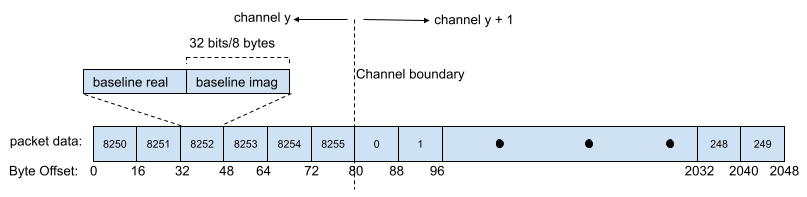
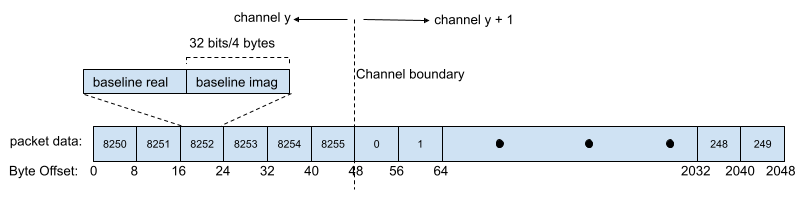
Add misc documentation updates
As per feedback on PR #131, there were a few formatting changes required
to conform a bit better to the .rst format. The X-Engine packet format
diagram was updated with the correct byte increments. I still need to
check if the relative links to documentation is working as expected.

Contributes to: NGC-376.

diff --git a/src/katgpucbf/xbgpu/xsend.py b/src/katgpucbf/xbgpu/xsend.py
@@ -25,7 +25,7 @@ heap out onto the network using the spead2 Python module. The high-performance
 ibverbs implementation of spead2 will be used even though the data rates out
 are very low due to the ibverbs implementation using far fewer system
 resources. The format of the packets transmitted by SPEAD2 can be found here:
-- doc/xbgpu.packet_format.rst
+- :ref:`xbgpu-packet-format`.
 
 The XSend class creates its own buffers and data in those buffers will be
 encapsulated into SPEAD heaps and sent onto the network. The user can request

diff --git a/src/tools/fsim.cpp b/src/tools/fsim.cpp
@@ -227,7 +227,7 @@ struct heap_data
          * Correlator Beamformer Visibilities and Tied Array Data" (Document ID: M1000-0001-020 rev 4)
          *
          * A rough explanation has been put together showing the exact packet format and byte offsets produced by the
-         * F-Engine - available at doc/fgpu.packet_format.rst.
+         * F-Engine - available at :ref:`fgpu-packet-format`.
          */
 
         heap.add_item(0x4101, iFengId);                            // The index of the F-Engine data is sent from

diff --git a/doc/xbgpu.packet_format.rst b/doc/xbgpu.packet_format.rst
@@ -1,17 +1,18 @@
-Baseline Correlation Products Data Packet Format
-~~~~~~~~~~~~~~~~~~~~~~~~~~~~~~~~~~~~~~~~~~~~~~~~
+.. _xbgpu-packet-format:
 
-According to the **MeerKAT M1000-0001 CBF-Data Subscribers ICD(M1200-0001-020)**,
+Baseline Correlation Products Data Packet Format
+================================================
+
+According to the **MeerKAT M1000-0001 CBF-Data Subscribers ICD (M1200-0001-020)**,
 the output SPEAD heaps from the X-Engine have the following data format:
 
 .. figure:: images/xeng_spead_heap_format_table.png
-  :width: 1087px
 
   Table indicating SPEAD heap format output by X-Engine
 
 In MeerKAT, each polarisation out of the X-Engine is treated as a separate antenna. In the
 case of a 64A Array we have 128 antpols which equates to (128)(128+1)/2 = 8256 baselines.
-Each baseline contains a 32-bit real and 32-bit imaginary sample for a combines size of
+Each baseline contains a 32-bit real and 32-bit imaginary sample for a combined size of
 8 bytes per baseline. This calculation contains 128 duplicate baselines (one per antpol).
 For MeerKAT, these duplicates are removed resulting in 8128 baselines. For the MK+ correlator,
 these duplicates are likely to not be removed. The ordering of the baselines is not fixed.
@@ -19,10 +20,10 @@ For MeerKAT, the katcp sensor <xeng-stream-name>-bls-ordering describes the orde
 baselines at runtime.
 
 A single SPEAD heap contains multiple channels worth of data. All the baselines for a
-single channel are grouped together contiguously. If we have a 64 antenna 32k array, then
-each heap has contains 4096/(4*64) = 128 channels. Unlike the F-Engine output packets,
-the X-Engine output packets are not aligned on channel boundaries and occur at arbitrary
-offsets within a packet.
+single channel are grouped together contiguously. e.g. For a 64 antenna 32k array, each
+heap contains 32768/(4x64) = 128 channels. Unlike the F-Engine output packets, the X-Engine
+output packets are not aligned on channel boundaries and occur at arbitrary offsets within
+a packet.
 
 The heap size is equal to
 
@@ -30,48 +31,41 @@ The heap size is equal to
 
 A heap is broken up into multiple packets. The maximum amount of data per packet is set to
 2048 bytes or 2 KiB. The last packet in the heap may be smaller to account for the heap size
-not always lining up with 2048 byte boundaries. The format of a single packets data is shown below:
+not always lining up with 2048 byte boundaries. The format of a single packet's data is shown below:
 
 .. figure:: images/xeng_pkt_format.png
-  :width: 1087px
 
   X-Engine Packet Format
 
 The SPEAD format assigns a number of metadata fields to each packet. Each metadata
 field is 64 bits/8 bytes wide. More information on these fields is listed in the
-`SPEAD documentation`_. The metadata fields are as follows:
+`SPEAD specification`_. The metadata fields are as follows:
 
-.. _SPEAD documentation: https://casper.ssl.berkeley.edu/astrobaki/images/9/93/SPEADsignedRelease.pdf
+.. _SPEAD specification: https://casper.ssl.berkeley.edu/astrobaki/images/9/93/SPEADsignedRelease.pdf
 
-  * `header`
-
-    * Contains information about the flavour of SPEAD being used.
-    * The most significant bit is always 0x53.
-  * `heap counter/id`
-
-    * A unique identifier that increments for each new heap.
-  * `heap size`
-
-    * Size of the heap in bytes.
-  * `heap offset`
-
-    * Address in bytes indicating the current packets location within the heap.
-  * `payload size`
-
-    * Number of bytes within the current packet payload.
+``header``
+  Contains information about the flavour of SPEAD being used.
+  The most significant bit is always 0x53.
+``heap counter/id``
+  A unique identifier that increments for each new heap.
+``heap size``
+  Size of the heap in bytes.
+``heap offset``
+  Address in bytes indicating the current packets location within the heap.
+``payload size``
+  Number of bytes within the current packet payload.
 
 In addition, each packet has a number of additional 64-bit fields specific
 to this heap that are used for reassembling the packets.
-  * `Frequency` (See above table)
 
-    * Although each packet represents a different frequency,
-      this value remains constant across a heap and represents
-      only the first frequency channel in the range of
-      channels within the heap.
-  * `timestamp` (See above table)
-  * `xeng_raw data descriptor`
+``frequency`` (See above table)
+  Although each packet represents a different frequency,
+  this value remains constant across a heap and represents
+  only the first frequency channel in the range of
+  channels within the heap.
+``timestamp`` (See above table)
 
-    * Not very useful, always set to zero for data from F-Engines.
+``xeng_raw item pointer`` (See above table)
 
 Seven of the above fields remain constant for all packets in a heap. The heap offset changes across
 packets. Heap offset is expected to change in multiples of 2048. This is used to reassemble packets
@@ -83,6 +77,5 @@ header in each packet. The total X-Engine packet size is thus equal to 64+2048 =
 The final UDP datagram payload is as follows:
 
 .. figure:: images/xeng_udp_datagram_payload.png
-  :width: 300px
 
   Final X-Engine UDP Datagram Payload

diff --git a/doc/fgpu.packet_format.rst b/doc/fgpu.packet_format.rst
@@ -1,63 +1,55 @@
-Channelised Voltage Data Packet Format
-~~~~~~~~~~~~~~~~~~~~~~~~~~~~~~~~~~~~~~
+.. _fgpu-packet-format:
 
-According to the **MeerKAT M1000-0001 CBF-Data Subscribers ICD(M1200-0001-020)**,
+Channelised Voltage Data Packet Format
+======================================
+
+According to the **MeerKAT M1000-0001 CBF-Data Subscribers ICD (M1200-0001-020)**,
 the output SPEAD heaps from the F-Engine have the following data format:
 
 .. figure:: images/feng_spead_heap_format_table.png
-  :width: 1087px
 
   Table indicating SPEAD heap format output by F-Engine
 
-In the case of a 64A 4k Array, each heap has contains 4096/(4*64) = 16 channels.
-There are 256 time samples per channel. Each sample is dual-pol complex 8 bit data.
-For a combined sample width of 32 bits or 4 bytes. The total heap size in this example is
-equal to 4096/(4*64) * 256 * 4 bytes. Each channel is transmitted in a separate packet.
+In the case of a 64A 4k Array, each heap contains 4096/(4*64) = 16 channels.
+There are 256 time samples per channel. Each sample is dual-pol complex 8 bit data
+for a combined sample width of 32 bits or 4 bytes. The heap payload size in this example
+is equal to 16 * 256 * 4 bytes. Each channel is transmitted in a separate packet.
 256 spectra * 32-bits = 1024 B/ 1 KiB of raw f_eng data per packet:
 
 .. figure:: images/feng_pkt_format.png
-  :width: 1087px
 
   F-Engine Packet Format
 
-The SPEAD format assigns a number of metadata fields to each packet. Each metadata
+The SPEAD protocol assigns a number of metadata fields to each packet. Each metadata
 field is 64 bits/8 bytes wide. More information on these fields is listed in the
-`SPEAD documentation`_. The metadata fields are as follows:
+`SPEAD specification`_. The metadata fields are as follows:
 
-.. _SPEAD documentation: https://casper.ssl.berkeley.edu/astrobaki/images/9/93/SPEADsignedRelease.pdf
+.. _SPEAD specification: https://casper.ssl.berkeley.edu/astrobaki/images/9/93/SPEADsignedRelease.pdf
 
-  * `header`
-
-    * Contains information about the flavour of SPEAD being used.
-    * The most significant bit is always 0x53.
-  * `heap counter/id`
-
-    * A unique identifier that increments for each new heap.
-  * `heap size`
-
-    * Size of the heap in bytes.
-  * `heap offset`
-
-    * Address in bytes indicating the current packets location within the heap.
-  * `payload size`
-
-    * Number of bytes within the current packet payload.
+``header``
+  Contains information about the flavour of SPEAD being used.
+``heap counter/id``
+  A unique identifier for each heap.
+``heap size``
+  Size of the heap in bytes.
+``heap offset``
+  Address in bytes indicating the current packets location within the heap.
+``payload size``
+  Number of bytes within the current packet payload.
 
 In addition, each packet has a number of additional 64-bit fields specific
 to this heap that are used for reassembling the packets.
 The fields are as follows:
-  * `Timestamp` (See above table)
-  * `Feng_id` (See above table)
-  * `Frequency` (See above table)
+``timestamp`` (See above table)
 
-    * Although each packet represents a different frequency,
-      this value remains constant across a heap and represents
-      only the first frequency channel in the range of
-      channels within the heap.
+``feng_id`` (See above table)
 
-  * `feng_raw data descriptor`
-
-    * Not very useful, always set to zero for data from F-Engines.
+``frequency`` (See above table)
+  Although each packet may represent a different frequency,
+  this value remains constant across a heap and represents
+  only the first frequency channel in the range of
+  channels within the heap.
+``feng_raw item pointer`` (See above table)
 
 Eight of the above fields remain constant for all packets in a heap.
 The heap offset changes across  packets. Heap offset is expected to change in
@@ -65,12 +57,12 @@ multiples of 1024. This is used to reassemble packets of the same heap together
 correctly.
 
 This gives nine header fields. The header fields are padded so that the header
-is aligned to a 256 bit boundary. As such three 64 bit fields of padding are used.
-As such the header is 12 * 8 = 96 bytes. The total F-Engine size is 96+1024 = 1100 bytes.
+is aligned to a 256-bit boundary. As such three 64-bit fields of padding are used.
+As such the header is 12 * 8 = 96 bytes. The total F-Engine packet size is
+96+1024 = 1100 bytes.
 
 The final UDP datagram payload is as follows:
 
 .. figure:: images/feng_udp_datagram_payload.png
-  :width: 300px
 
   Final F-Engine UDP Datagram Payload

diff --git a/doc/xbgpu.networking.rst b/doc/xbgpu.networking.rst
@@ -29,7 +29,8 @@ one or more UDP packets. A SPEAD transmitter will decompose a heap into packets
 and the receiver will collect all the packets and reassemble the heap.
 
 The heaps and corresponding packet formats received by katxbgpu have already
-been defined and is discussed in the fgpu.packet_format document.
+been defined and is discussed in the :ref:`fgpu-packet-format`
+document.
 
 spead2
 ~~~~~~

diff --git a/doc/index.rst b/doc/index.rst
@@ -18,6 +18,7 @@ Welcome to katgpucbf's documentation!
    :caption: F engine
 
    fgpu.design
+   fgpu.packet_format
    fgpu.glossary
 
 .. toctree::
@@ -26,6 +27,7 @@ Welcome to katgpucbf's documentation!
 
    xbgpu.theory
    xbgpu.networking
+   xbgpu.packet_format
    xbgpu.tcc
 
 .. toctree::

diff --git a/doc/katgpucbf.xbgpu.rst b/doc/katgpucbf.xbgpu.rst
@@ -10,8 +10,8 @@ Submodules
    katgpucbf.xbgpu.main
    katgpucbf.xbgpu.precorrelation_reorder
    katgpucbf.xbgpu.recv
-   katgpucbf.xbgpu.tensorcore_xengine_core
-   katgpucbf.xbgpu.xbengine
+   katgpucbf.xbgpu.correlation
+   katgpucbf.xbgpu.engine
    katgpucbf.xbgpu.xsend
 
 Module contents

diff --git a/doc/katgpucbf.xbgpu.engine.rst b/doc/katgpucbf.xbgpu.engine.rst
@@ -1,7 +1,7 @@
-katgpucbf.xbgpu.xbengine module
+katgpucbf.xbgpu.engine module
 ===============================
 
-.. automodule:: katgpucbf.xbgpu.xbengine
+.. automodule:: katgpucbf.xbgpu.engine
    :members:
    :undoc-members:
    :show-inheritance:

diff --git a/doc/katgpucbf.xbgpu.correlation.rst b/doc/katgpucbf.xbgpu.correlation.rst
@@ -1,0 +1,7 @@
+katgpucbf.xbgpu.correlation module
+================================================
+
+.. automodule:: katgpucbf.xbgpu.correlation
+   :members:
+   :undoc-members:
+   :show-inheritance:
